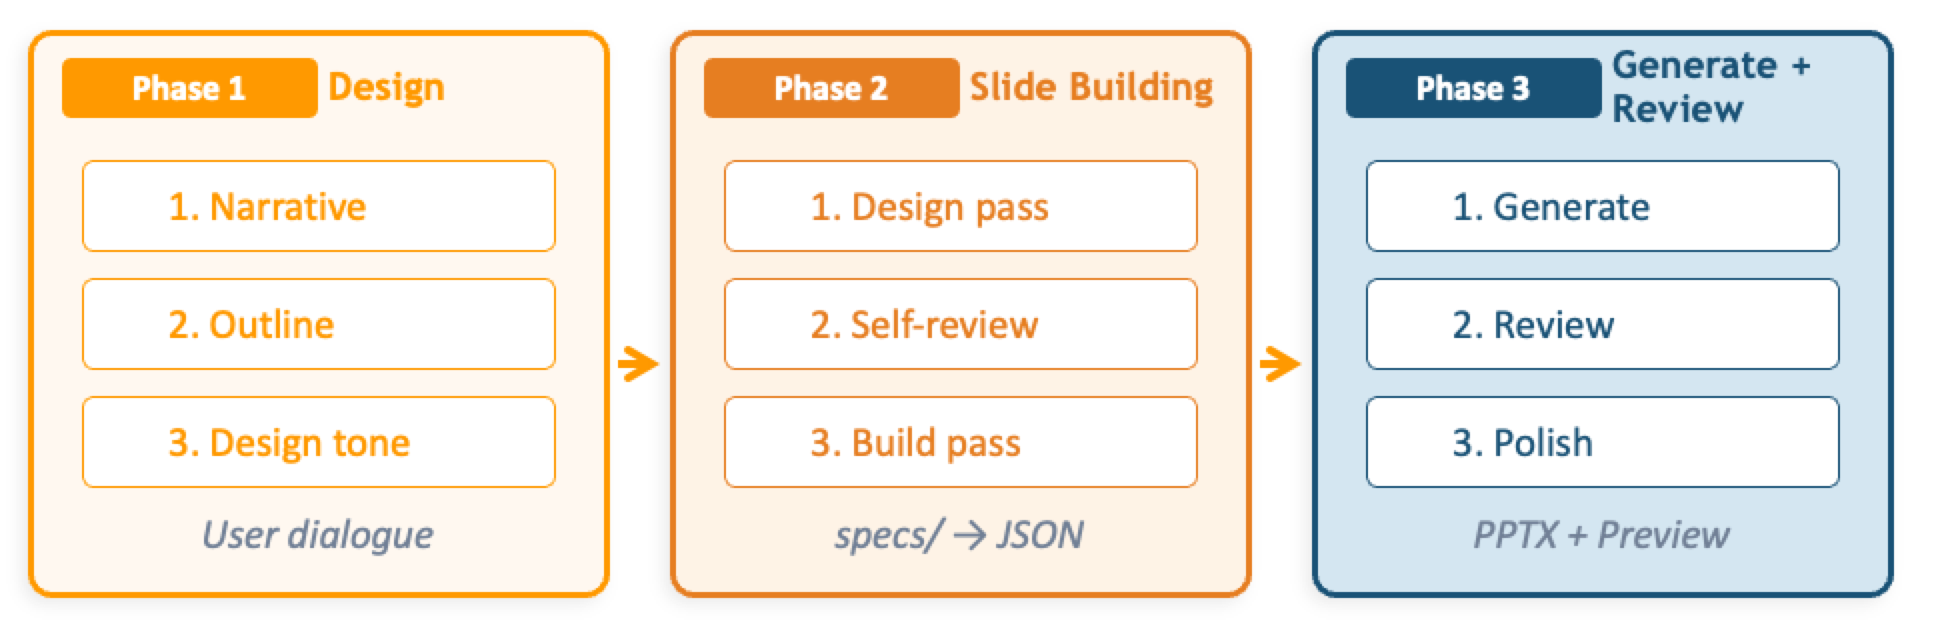
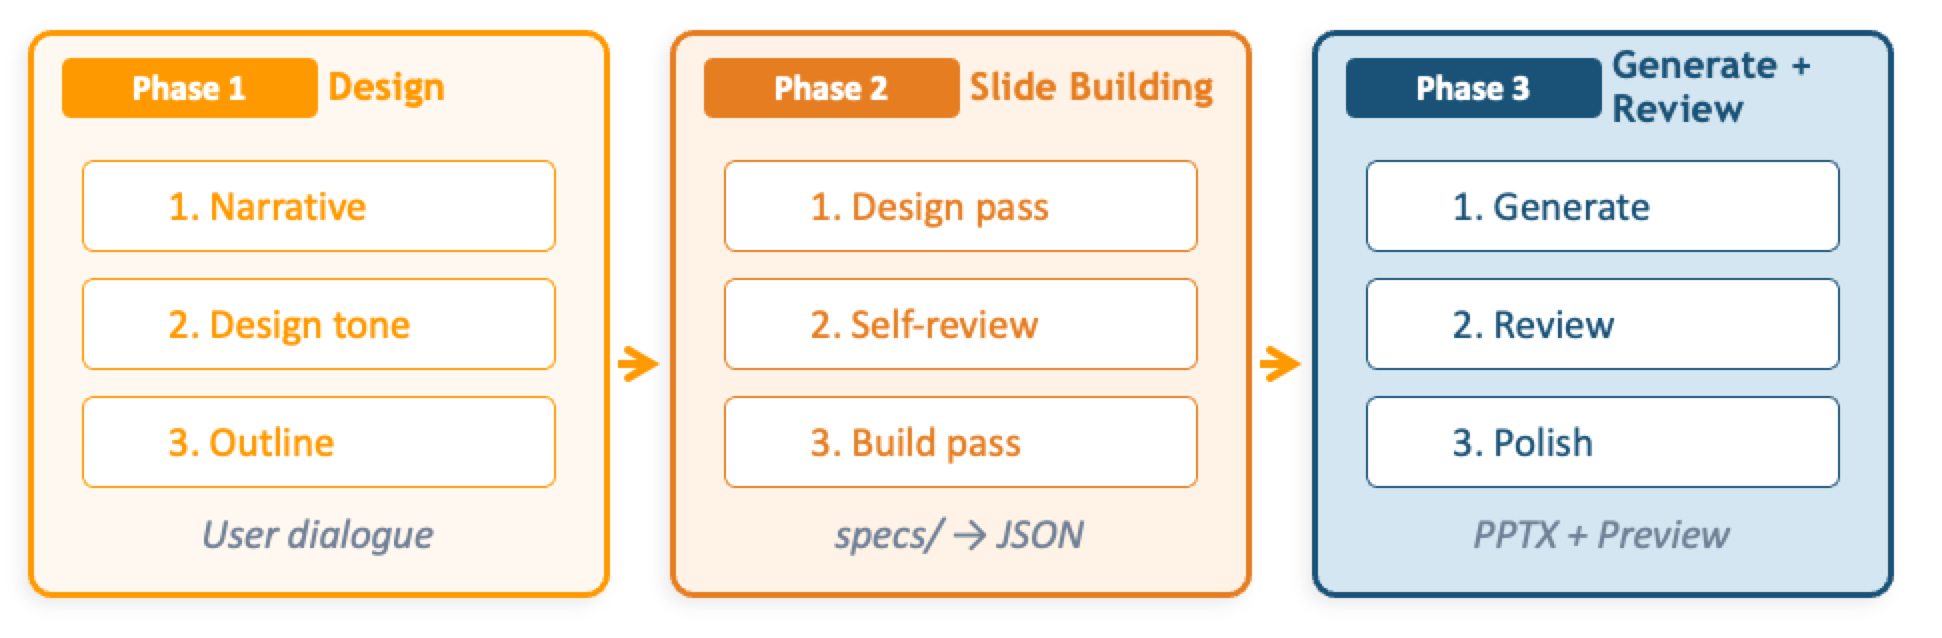
docs: workflow order is brief → art direction → outline
README (en/ja), getting-started (en/ja), architecture and the workflow
diagrams still described the pre-fa6dba4e order.

SPEC: 20260924-1032_sync-brief-style-outline-order

Changed region(s): [[0.0927, 0.6552, 0.2163, 0.7445], [0.0927, 0.4765, 0.2163, 0.5361]]

diff --git a/README_ja.md b/README_ja.md
@@ -41,7 +41,7 @@
 
 | 頼み方 | 動作 |
 |---|---|
-| 「〜のスライドを作って」 | 新規プレゼン作成（ブリーフ → アウトライン → アートディレクション → 並列スライド作成 → レビュー） |
+| 「〜のスライドを作って」 | 新規プレゼン作成（ブリーフ → アートディレクション → アウトライン → 並列スライド作成 → レビュー） |
 | 「この PPTX を編集して」 | 既存 PPTX を編集可能なデッキとして取り込み |
 | 「PowerPoint で手直ししたので続きを」 | 手編集の内容をデッキに同期 |
 | 「〜みたいなスタイルを作って」 | 再利用可能なスタイルガイドを作成（配色・タイポグラフィ・装飾） |

diff --git a/docs/en/architecture.md b/docs/en/architecture.md
@@ -167,7 +167,7 @@ The agent's system prompt is minimal — workflow knowledge is dynamically retri
 1. User describes the presentation content via chat
 2. Agent calls MCP Server tools to create a deck (`init_presentation`)
 3. Analyzes the template and retrieves available layouts (`analyze_template`)
-4. Following workflow files, designs briefing → outline → art direction (persisted to `specs/`)
+4. Following workflow files, designs briefing → art direction → outline (persisted to `specs/`)
 5. Builds slides (`run_python` to edit files in the workspace)
 6. Generates PPTX (`generate_pptx`) → saved to S3, previews generated synchronously
 7. Retrieves preview images for review (`get_preview`)

diff --git a/docs/ja/getting-started.md b/docs/ja/getting-started.md
@@ -161,7 +161,7 @@ uv run python server.py
 
 1. MCP Server Instructions からワークフローファイルを読み取り
 2. トピック・対象者・目的についてヒアリング
-3. ブリーフィング → アウトライン → アートディレクションを設計し、`specs/` に永続化
+3. ブリーフィング → アートディレクション → アウトラインを設計し、`specs/` に永続化（スタイルの Message & Outline がデッキ長・密度・タイトル文法を決めるため、アウトラインより先にスタイルを選ぶ）
 4. スライドを 1 枚ずつ構築
 5. PPTX を生成し、プレビューを表示
 

diff --git a/README.md b/README.md
@@ -38,7 +38,7 @@ automatically — just describe what you want:
 
 | Ask | What happens |
 |---|---|
-| "Make slides about …" | New presentation (brief → outline → art direction → parallel slide composition → review) |
+| "Make slides about …" | New presentation (brief → art direction → outline → parallel slide composition → review) |
 | "Edit this PPTX" | Imports an existing PPTX into an editable deck |
 | "I hand-edited the PPTX, continue from it" | Syncs your PowerPoint edits back into the deck |
 | "Create a style like …" | Builds a reusable style guide (colors, typography, decoration) |

diff --git a/docs/en/getting-started.md b/docs/en/getting-started.md
@@ -161,7 +161,7 @@ Ask your agent to "create a presentation." The following workflow runs automatic
 
 1. Reads workflow files via MCP Server Instructions
 2. Interviews you about topic, audience, and purpose
-3. Designs briefing → outline → art direction, persisted to `specs/`
+3. Designs briefing → art direction → outline, persisted to `specs/` (the style is chosen before the outline because its Message & Outline part fixes deck length, density and title grammar)
 4. Builds slides one by one
 5. Generates PPTX and shows a preview
 
